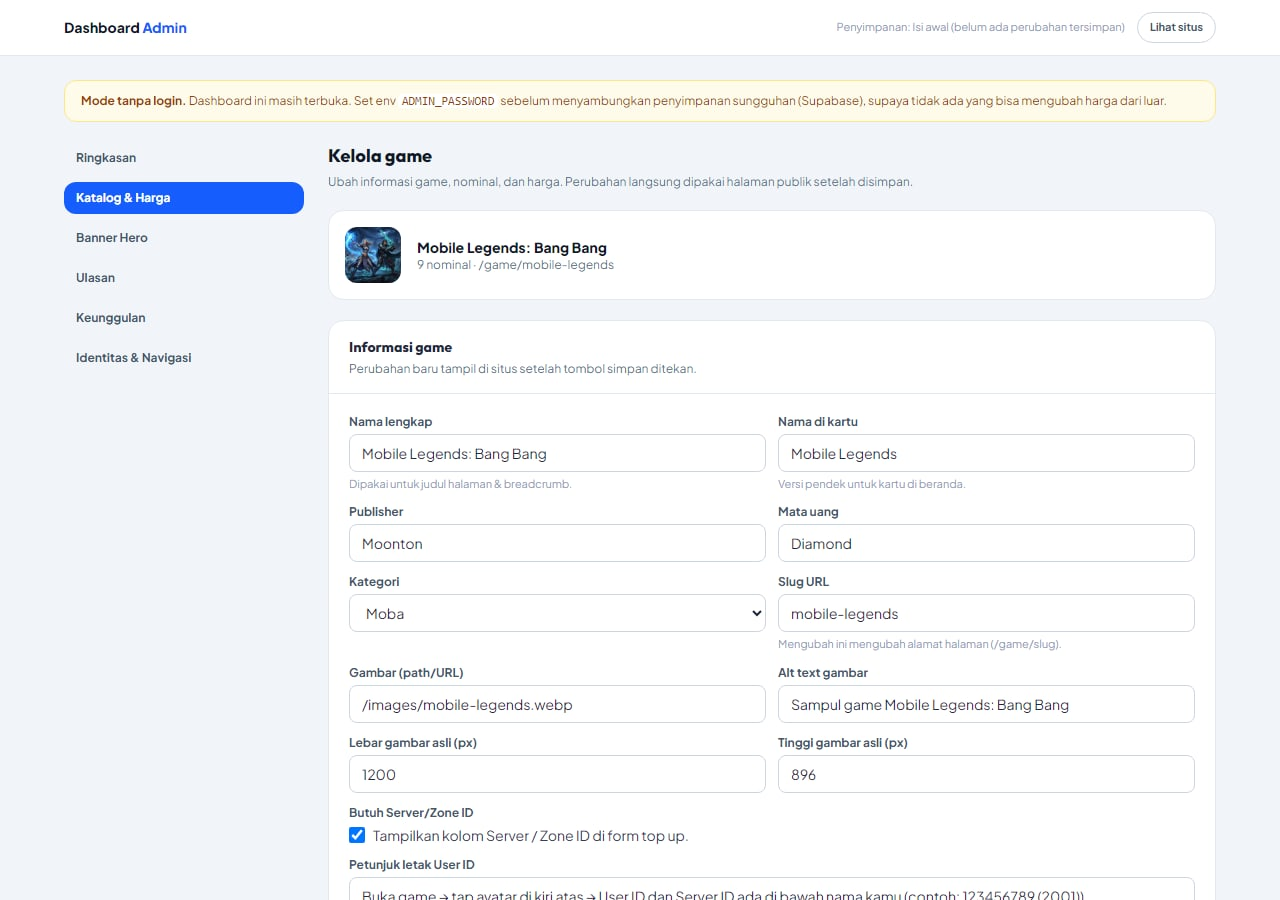
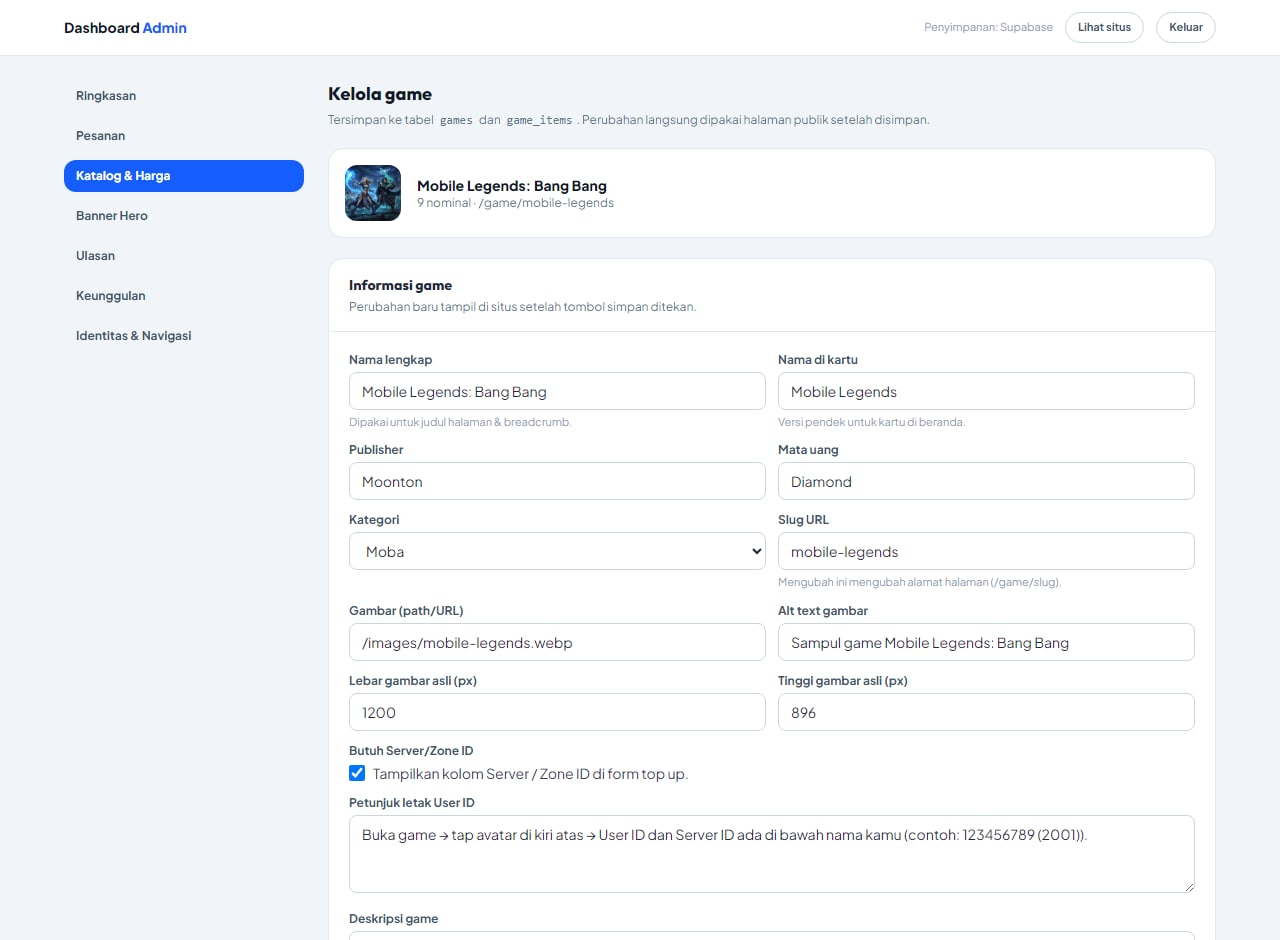
docs: document the data model, orders and admin dashboard
- New data model section: the four tables, why catalog and orders are
  relational while presentation content stays a JSON document, and the SQL to
  create them from scratch
- Documents the order lifecycle and that prices are resolved server-side, so
  the URL cannot be used to change them
- Adds the Pesanan dashboard section and refreshed dashboard screenshots

diff --git a/README.md b/README.md
@@ -4,13 +4,13 @@
 
 **Top up game, lebih seru setiap hari.**
 
-A production-ready game top-up storefront — 6 game catalogs, a 3-step checkout flow, and an admin dashboard that drives every piece of public content.
+A production-ready game top-up storefront — game catalog with per-denomination pricing, a 3-step checkout that writes real orders, and an admin dashboard that drives every piece of public content.
 
 [![Next.js](https://img.shields.io/badge/Next.js-15-000000?logo=nextdotjs&logoColor=white)](https://nextjs.org)
 [![React](https://img.shields.io/badge/React-19-61DAFB?logo=react&logoColor=black)](https://react.dev)
 [![TypeScript](https://img.shields.io/badge/TypeScript-strict-3178C6?logo=typescript&logoColor=white)](https://www.typescriptlang.org)
 [![Tailwind CSS](https://img.shields.io/badge/Tailwind_CSS-4-06B6D4?logo=tailwindcss&logoColor=white)](https://tailwindcss.com)
-[![Framer Motion](https://img.shields.io/badge/Framer_Motion-12-E91E63?logo=framer&logoColor=white)](https://motion.dev)
+[![Supabase](https://img.shields.io/badge/Supabase-Postgres-3ECF8E?logo=supabase&logoColor=white)](https://supabase.com)
 [![App Router](https://img.shields.io/badge/App_Router-SSG_%2B_dynamic-1d4ed8)](#routing--rendering)
 
 ![Juegova home page](docs/home-hero.jpg)
@@ -23,7 +23,7 @@ A production-ready game top-up storefront — 6 game catalogs, a 3-step checkout
 
 Juegova is a storefront where gamers top up in-game currency (Diamonds, UC, Genesis Crystals, VP). The customer flow is three steps: pick a game, enter the in-game account ID, then choose a denomination and a payment method.
 
-Everything the customer sees — prices, banners, testimonials, navigation, even the brand name in the logo — is editable from a built-in admin dashboard at `/admin`, without touching code or redeploying.
+Every order is recorded in Postgres. Every price, banner, testimonial and menu item is editable from a built-in dashboard at `/admin` — no code changes, no redeploys.
 
 This repository is a **migration from a hand-written static site** — three standalone HTML files with a CDN-loaded Tailwind build — into a typed, component-driven Next.js application. The visual identity (colours, typography, spacing, gradients, motion) was carried over deliberately, not redesigned.
 
@@ -37,61 +37,108 @@ This repository is a **migration from a hand-written static site** — three sta
 | :---: | :---: |
 | ![Home page full](docs/home-full.jpg) | <img src="docs/mobile-home.jpg" width="260" alt="Mobile home" /> <img src="docs/mobile-game.jpg" width="260" alt="Mobile game detail" /> |
 
+## Data model
+
+Four tables. Catalog and orders are **relational**, because they are operational data: you want to query a price, sort orders, or fix a row directly in the Supabase table editor. Presentation content is a **single JSON document**, because nobody queries "all testimonials where…" and it keeps that part of the admin model-free.
+
+| Table | Rows | Purpose |
+| --- | --- | --- |
+| `games` | 1 per game | name, publisher, category, artwork, ID hint, description, order |
+| `game_items` | 1 per denomination | `game_id` → games, label, price, order |
+| `orders` | 1 per order | invoice, game, item, account, payment method, totals, status |
+| `site_content` | 1 row (`id = 'main'`) | JSON: brand settings, banners, testimonials, features, navigation |
+
+```sql
+create table public.games (
+  id text primary key, name text not null, card_title text not null,
+  publisher text not null default '', currency text not null default '',
+  category text not null default '', image text not null default '',
+  image_width int not null default 1200, image_height int not null default 896,
+  image_alt text not null default '', needs_zone boolean not null default false,
+  id_hint text not null default '', description text not null default '',
+  sort_order int not null default 0, is_active boolean not null default true,
+  created_at timestamptz not null default now(),
+  updated_at timestamptz not null default now()
+);
+
+create table public.game_items (
+  id uuid primary key default gen_random_uuid(),
+  game_id text not null references public.games(id) on delete cascade,
+  label text not null, price integer not null check (price >= 0),
+  sort_order int not null default 0, is_active boolean not null default true,
+  created_at timestamptz not null default now()
+);
+
+create table public.orders (
+  id uuid primary key default gen_random_uuid(),
+  invoice text not null unique, game_id text, game_name text not null,
+  item_label text not null, account_id text not null, payment_method text not null,
+  subtotal integer not null, fee integer not null default 0,
+  discount integer not null default 0, total integer not null,
+  status text not null default 'menunggu',
+  created_at timestamptz not null default now(),
+  updated_at timestamptz not null default now()
+);
+
+create table public.site_content (
+  id text primary key, data jsonb not null,
+  updated_at timestamptz not null default now()
+);
+
+alter table public.games       enable row level security;
+alter table public.game_items  enable row level security;
+alter table public.orders      enable row level security;
+alter table public.site_content enable row level security;
+
+revoke all on public.games, public.game_items, public.orders, public.site_content
+  from anon, authenticated;
+grant all on public.games, public.game_items, public.orders, public.site_content
+  to service_role;
+```
+
+**Access is server-only.** RLS is on, `anon` and `authenticated` are revoked, and only `service_role` is granted. The publishable key — the only key safe to ship to a browser — gets `401` on both read and write.
+
+Without Supabase configured, everything falls back to JSON files under `content/` so `npm run dev` works offline; the shipped defaults live in `data/*.ts` and are type-checked.
+
+### Orders
+
+An order is created the moment a customer presses **Beli Sekarang**, before any payment happens:
+
+- **The price is never sent from the browser.** The client sends only the game id and the denomination label; the server looks the price up in `game_items` and computes the fee and discount. Changing `?price=1` in the URL does nothing.
+- The customer lands on `/pembayaran/[invoice]`, which reads the order back from the database — so the page, the totals and the 15-minute countdown (measured from `created_at`, not from page load) are all driven by the stored row.
+- **Saya Sudah Bayar** moves `menunggu → dibayar`. That is a claim, not a verification; the transition is guarded so the public page cannot touch an order that is already processed. Only the dashboard can move an order to `selesai` or `batal`.
+
+| Status | Meaning |
+| --- | --- |
+| `menunggu` | Order created, waiting for payment |
+| `dibayar` | Customer says they paid — needs checking against the bank/e-wallet |
+| `selesai` | Verified and delivered |
+| `batal` | Cancelled or expired |
+
 ## Admin dashboard
 
-| Overview | Editing a game & its prices |
-| :---: | :---: |
-| ![Admin dashboard](docs/admin-dashboard.jpg) | ![Admin catalog editor](docs/admin-catalog.jpg) |
+| Overview | Catalog & prices | Orders |
+| :---: | :---: | :---: |
+| ![Admin dashboard](docs/admin-dashboard.jpg) | ![Admin catalog](docs/admin-catalog.jpg) | ![Admin orders](docs/admin-orders.jpg) |
 
 Available at `/admin`. What can be managed:
 
 | Section | What it controls |
 | --- | --- |
-| Katalog & Harga | Games, publishers, categories, artwork, plus every denomination and price. Add, reorder, or delete games and price tiers. |
-| Banner Hero | The home page slider — image, alt text, link, and slide order. |
-| Ulasan | The overall rating, the home testimonials, and the reviews shown on game pages. |
-| Keunggulan | The “why choose us” cards, the badge pills on game banners, and the guarantee points on the game and checkout pages. |
-| Identitas & Navigasi | Brand name, tagline, description, contact details, social links, section headings, categories, and both menus. |
+| **Pesanan** | Orders with filters per status, revenue total, per-order detail and status changes. |
+| **Katalog & Harga** | Games and every denomination/price. Add, reorder or delete games and price tiers. |
+| **Banner Hero** | The home page slider — image, alt text, link and order. |
+| **Ulasan** | Overall rating, home testimonials, game-page reviews. |
+| **Keunggulan** | Feature cards, banner badges, guarantee points, top-up steps. |
+| **Identitas & Navigasi** | Brand name, tagline, description, contact, social links, section headings, categories, both menus. |
 
-### How content is stored
-
-The whole site is a **single JSON document** rather than dozens of relational tables. That keeps the storage layer swappable and the page code untouched when the backend changes. Resolution order:
-
-1. **Supabase** — when `SUPABASE_URL` and `SUPABASE_SERVICE_ROLE_KEY` are set
-2. **`content/site.json`** — written by the dashboard (works locally; on a serverless host with a read-only filesystem, writes fail with an explicit message)
-3. **`data/*.ts`** — the typed defaults, used before anything has been saved
-
-Saves are recursive merges, so a form can submit only its own slice — `{ navigation: { header: [...] } }` does not wipe the footer menus.
-
-Editing a price revalidates the cached content, so public pages pick up the change on the next request. Game pages stay statically generated; the checkout page stays dynamic.
-
-### Connecting Supabase
-
-The Supabase adapter talks to the REST API directly (no extra dependency). Create one table and fill in two environment variables:
-
-```sql
-create table if not exists site_content (
-  id text primary key,
-  data jsonb not null,
-  updated_at timestamptz not null default now()
-);
-```
-
-```bash
-SUPABASE_URL=https://xxxx.supabase.co
-# Service role key. Bisa JWT lama (service_role) atau secret key baru (sb_secret_...).
-SUPABASE_SERVICE_ROLE_KEY=...
-```
-
-The table is locked down: RLS is enabled, access for `anon` and `authenticated` is revoked, and only `service_role` is granted — so the publishable key cannot read or write the content.
+Saves are recursive merges, so a form submits only its own slice and cannot wipe sibling data. Every save revalidates the content cache, so public pages update on the next request while game pages stay statically generated.
 
 ### Admin login
 
-Login is **off until you turn it on**. Set `ADMIN_PASSWORD` and `/admin` immediately requires a session; without it the dashboard is open, and it shows a warning banner saying so.
+Login is **off until you turn it on**. Set `ADMIN_PASSWORD` and `/admin` immediately requires an HMAC-signed `httpOnly` cookie, compared with `timingSafeEqual`. Without it the dashboard is open and shows a warning banner saying so.
 
-> Set `ADMIN_PASSWORD` **before** connecting Supabase. While the file store is in use, a serverless deployment cannot persist writes anyway, so an open dashboard is harmless. Once Supabase is connected, writes are real and the dashboard must not be public.
-
-Sessions are `httpOnly` cookies signed with HMAC-SHA256, compared with `timingSafeEqual`. `/admin` is also disallowed in `robots.txt`.
+> Set `ADMIN_PASSWORD` **before** connecting Supabase. Once writes are real, an open dashboard means anyone can change your prices.
 
 ## Features
 
@@ -99,53 +146,51 @@ Sessions are `httpOnly` cookies signed with HMAC-SHA256, compared with `timingSa
 
 - Hero carousel with autoplay, looping and clickable pagination
 - Live game search with keyboard shortcut (<kbd>Ctrl</kbd>+<kbd>K</kbd>)
-- Working category filter derived from the catalog (empty categories never render)
+- Category filter derived from the catalog (empty categories never render)
 - Three-step checkout with inline validation
 - Payment instructions that adapt per method — QRIS / e-wallet shows a QR, bank transfer shows a virtual account number with copy-to-clipboard, Alfamart shows a retail code
-- 15-minute payment countdown with an expiry state
+- 15-minute payment countdown, measured from the order's creation time
 - Success modal, dismissible with <kbd>Esc</kbd> or a backdrop click
 
 **Engineering**
 
 - TypeScript `strict` with zero `any`
-- Adding a game, a price tier, a banner or a testimonial is a dashboard action — no layout changes needed
-- Icon names are a union type (`IconName`), so a typo fails the build instead of rendering an empty box
+- Adding a game or a price tier is a dashboard action
+- Icon names are a union type, so a typo fails the build instead of rendering an empty box
 - Fully responsive, verified at 390 / 768 / 1440 px
 
 ## Engineering notes
 
-A few decisions worth calling out, because they are the parts that were not obvious.
-
 ### Routing & rendering
 
-Game pages live at `/game/[slug]` and are **statically prerendered** via `generateStaticParams`. The checkout page reads `searchParams`, so it is server-rendered on demand and marked `noindex`. The dashboard is explicitly `force-dynamic`, because a cached admin view would show stale prices.
+Game pages live at `/game/[slug]` and are **statically prerendered** via `generateStaticParams`. The checkout page reads its order from Postgres and is rendered on demand; the dashboard is `force-dynamic`, because a cached admin view would show stale prices.
 
 The original site used `/game?id=xxx`. Those URLs are still live in the wild, so `middleware.ts` issues a `308` to the clean path. Redirects in `next.config` were not usable here: Next always carries the source query string into the destination, which produced `/game/valorant?id=valorant`. Middleware can strip just the `id` parameter while preserving analytics parameters such as `utm_source`.
 
 ### Verifying a migration instead of eyeballing it
 
-"The design looks the same" is not a test. To prove visual parity, both the original HTML and the Next build were rendered in headless Chrome at identical viewports, and a script compared **every text run and every image** — position, size, font size, weight, colour, line height — plus section-level background, gradient and shadow values.
+"The design looks the same" is not a test. Both the original HTML and the Next build were rendered in headless Chrome at identical viewports, and a script compared **every text run and every image** — position, size, font size, weight, colour, line height — plus section-level background, gradient and shadow values. It was re-run after every refactor, including the move to relational tables.
 
-That surfaced five real defects:
+That caught five real defects:
 
 1. **Scroll-reveal content was permanently invisible under `prefers-reduced-motion`.** Framer Motion skips the `whileInView` animation but leaves the `opacity: 0` initial state, so anyone with reduced motion enabled saw empty sections. Fixed with a `matchMedia`-backed hook plus a CSS safety net that wins over inline styles.
-2. **`group-hover:grad` never generated CSS.** The original HTML applied a custom class where a Tailwind utility was expected, so the card hover effect silently did nothing. Solved by re-declaring the gradient as a real `@utility`, which also makes every variant work.
+2. **`group-hover:grad` never generated CSS.** The original HTML applied a custom class where a Tailwind utility was expected, so the card hover effect silently did nothing. Re-declared as a real `@utility`.
 3. **A breadcrumb lost its whitespace.** JSX strips whitespace adjacent to newlines, so the separators rendered 4px off. Invisible to the eye; obvious to a diff.
-4. **Duplicate SVG gradient IDs.** The header and footer both used `id="jg"`, which is invalid HTML. Now unique per instance.
-5. **The hero slider broke when the slide count became dynamic.** Moving from static percentage classes to a computed transform shifted every slide, because a percentage translate resolves against the track's own width. Caught by re-running the diff.
+4. **Duplicate SVG gradient IDs.** The header and footer both used `id="jg"`, which is invalid HTML.
+5. **The hero slider broke when the slide count became dynamic.** A percentage translate resolves against the track's own width, so switching from static classes to a computed transform shifted every slide.
 
 ### Accessibility
 
-- The icon set is inline SVG with `aria-hidden`, replacing emoji — emoji render differently on every platform and cannot inherit `currentColor`.
-- Decorative icons are hidden from assistive tech; the rating row carries a single `role="img"` label instead of reading "star star star star star".
-- Carousel, search, filters, tabs and modal are all keyboard operable, with `aria-current`, `aria-pressed` and `aria-expanded` set.
+- Inline SVG icon set with `aria-hidden`, replacing emoji — emoji render differently on every platform and cannot inherit `currentColor`.
+- The rating row carries a single `role="img"` label instead of reading "star star star star star".
+- Carousel, search, filters and modal are keyboard operable, with `aria-current`, `aria-pressed` and `aria-expanded` set.
 - The home and checkout pages had **no `<h1>` at all** in the original markup. Each now has exactly one, visually hidden so the design is untouched.
 
 ### Assets
 
-Source artwork was 19.1 MB of PNG. Converted to WebP it is **1.7 MB** (−91%) with no visible difference, and `next/image` still negotiates AVIF at request time. The social card is a separate 1200×630 JPEG because Facebook and Twitter do not reliably render WebP previews.
+Source artwork was 19.1 MB of PNG. As WebP it is **1.7 MB** (−91%) with no visible difference, and `next/image` still negotiates AVIF at request time. The social card is a separate 1200×630 JPEG because Facebook and Twitter do not reliably render WebP previews.
 
-Fonts are loaded through `next/font/local`. Only the weights actually present in the markup are declared — the source contained italic, thin and light files that no element ever used.
+Fonts load through `next/font/local`, and only the weights present in the markup are declared.
 
 ## Tech stack
 
@@ -155,18 +200,18 @@ Fonts are loaded through `next/font/local`. Only the weights actually present in
 | Language | TypeScript, `strict` |
 | Styling | Tailwind CSS v4 — CSS-first config, one styling method across the project |
 | Animation | Framer Motion (scroll reveals, respecting reduced motion) |
+| Database | Supabase Postgres, accessed over PostgREST with no extra dependency |
 | Images | `next/image`, AVIF/WebP negotiation |
 | Fonts | `next/font/local` (Outfit, Plus Jakarta Sans, Caveat) |
 | SEO | Metadata API, JSON-LD, generated `sitemap.xml` and `robots.txt` |
-| Content | Single JSON document — `data/*.ts` defaults, `content/site.json` overrides, optional Supabase |
 | Admin auth | HMAC-signed `httpOnly` cookie, no external dependency |
 
 ## SEO & metadata
 
 - Per-page `title` / `description` / canonical / OpenGraph / Twitter card through the Metadata API
 - JSON-LD: `Organization`, `WebSite` and `ItemList` on the home page; `Product` (with `AggregateOffer` and `AggregateRating`) and `BreadcrumbList` on each game page
-- `sitemap.xml` and `robots.txt` generated from the same content source as the pages, so they cannot drift
-- The checkout page and the dashboard are `noindex` and excluded from the sitemap
+- `sitemap.xml` generated from the same catalog as the pages, so it cannot drift
+- Checkout and dashboard are `noindex` and excluded from the sitemap
 - Every image has descriptive `alt` text; heading order is `h1 → h2 → h3` with no skipped levels
 
 ## Getting started
@@ -188,11 +233,11 @@ npm run typecheck  # tsc --noEmit
 
 | Variable | Default | Purpose |
 | --- | --- | --- |
-| `NEXT_PUBLIC_SITE_URL` | Vercel's production domain, else `https://juegova.net` | Canonical origin used by metadata, the sitemap and `robots.txt`. |
+| `NEXT_PUBLIC_SITE_URL` | Vercel's production domain, else `https://juegova.net` | Canonical origin for metadata, the sitemap and `robots.txt`. |
 | `ADMIN_PASSWORD` | *(unset — dashboard is open)* | Enables the login gate on `/admin`. |
 | `ADMIN_SESSION_SECRET` | derived from `ADMIN_PASSWORD` | Set it to invalidate existing sessions without changing the password. |
-| `SUPABASE_URL` | *(unset)* | Switches content storage to Supabase. |
-| `SUPABASE_SERVICE_ROLE_KEY` | *(unset)* | Server-side key for the content table. |
+| `SUPABASE_URL` | *(unset — file storage)* | Switches content and catalog storage to Postgres. |
+| `SUPABASE_SERVICE_ROLE_KEY` | *(unset)* | Service role key or `sb_secret_…` key. Server-side only. |
 
 ## Project structure
 
@@ -201,22 +246,20 @@ app/
   layout.tsx                root layout, fonts, global metadata
   page.tsx                  home
   game/[slug]/page.tsx      game detail (SSG, generateStaticParams)
-  pembayaran/page.tsx       checkout (dynamic, noindex)
+  pembayaran/[invoice]/     checkout for one order (dynamic, noindex)
   admin/
     login/                  login page (no shell, no guard)
     (dashboard)/            sidebar shell + auth guard, all editors
   sitemap.ts robots.ts      generated crawler files
   not-found.tsx             branded 404
 components/
-  layout/                   header, footer, logo, search, mobile nav
-  home/                     hero slider, marquee, catalog, testimonials
-  game/                     banner, top-up flow, order summary
-  payment/                  stepper, countdown, instructions, QR
-  admin/                    form primitives, list editors, game editor
+  layout/ home/ game/ payment/   public UI
+  admin/                    form primitives, list editors, game editor, order status
   ui/                       icon set, reveal, avatar, stars, JSON-LD
 data/                       typed default content (seed)
 lib/
-  content/                  content store + defaults
+  content/                  content store, catalog store, backend config
+  orders/                   order store, statuses, checkout actions
   admin/                    auth helpers
   ...                       site config, metadata, JSON-LD, pricing
 types/                      shared domain types
@@ -225,12 +268,10 @@ middleware.ts               legacy /game?id= → /game/[slug] redirect
 
 ## Placeholders & roadmap
 
-This build is front-end complete. These pieces need real values or a backend before going live:
-
-- **Payment gateway.** The QR is a deterministic decorative pattern, not a scannable code, and the virtual account numbers are generated client-side. Prices also arrive from the order form and must be re-validated server-side.
-- **Customer accounts.** The Login and Register buttons in the header are still inert.
+- **Payment gateway.** The QR is a deterministic decorative pattern, not a scannable code, and the virtual account numbers are generated client-side. Orders are recorded and statuses are managed manually until a gateway is wired up.
+- **Customer accounts.** The Login and Register buttons in the header are still inert; orders are not tied to a user.
 - **Newsletter.** The form reports success locally; no endpoint is wired up.
-- **WhatsApp.** The dashboard can store a support number, but nothing on the site links to it yet — that needs a contact section or a floating button.
+- **WhatsApp.** The dashboard can store a support number, but nothing on the site links to it yet.
 
 ## Author
 
